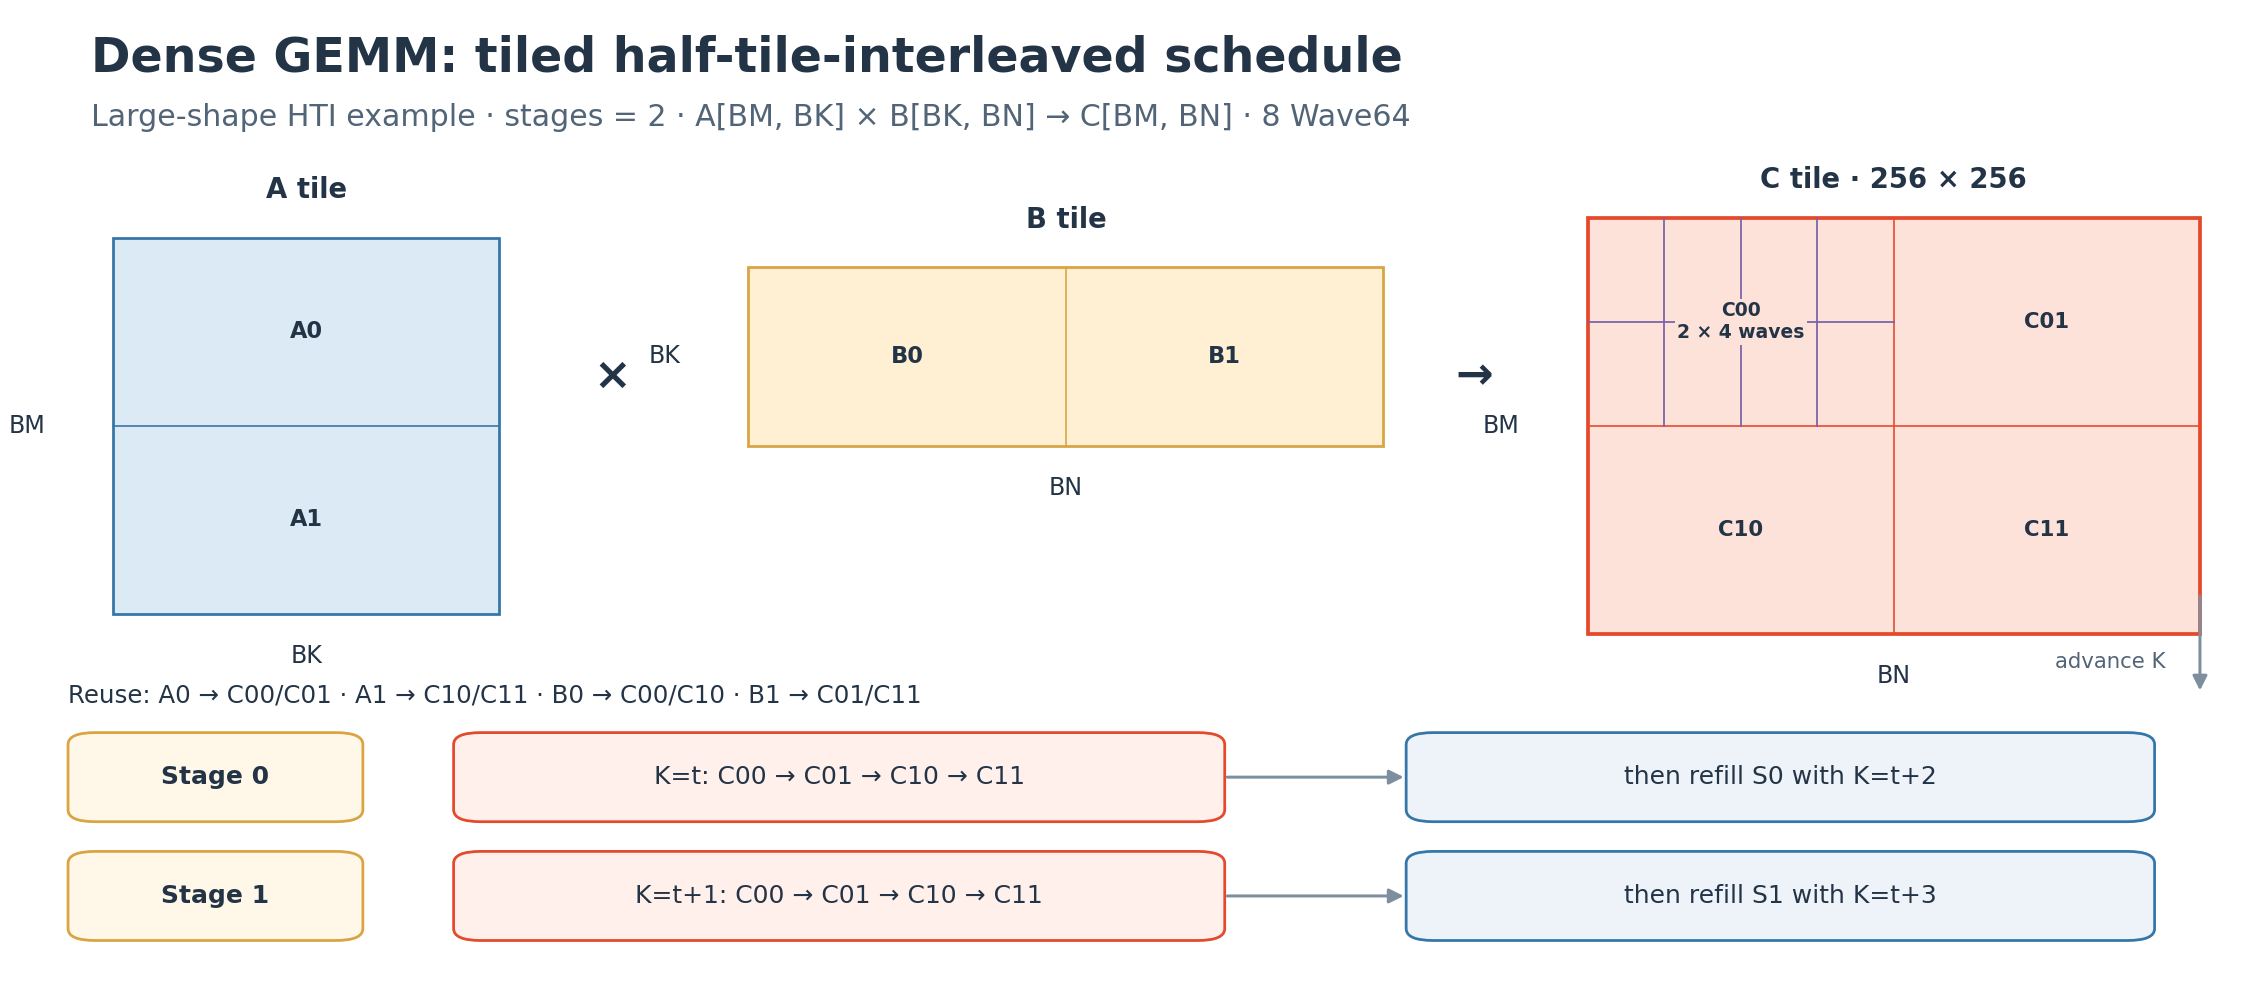
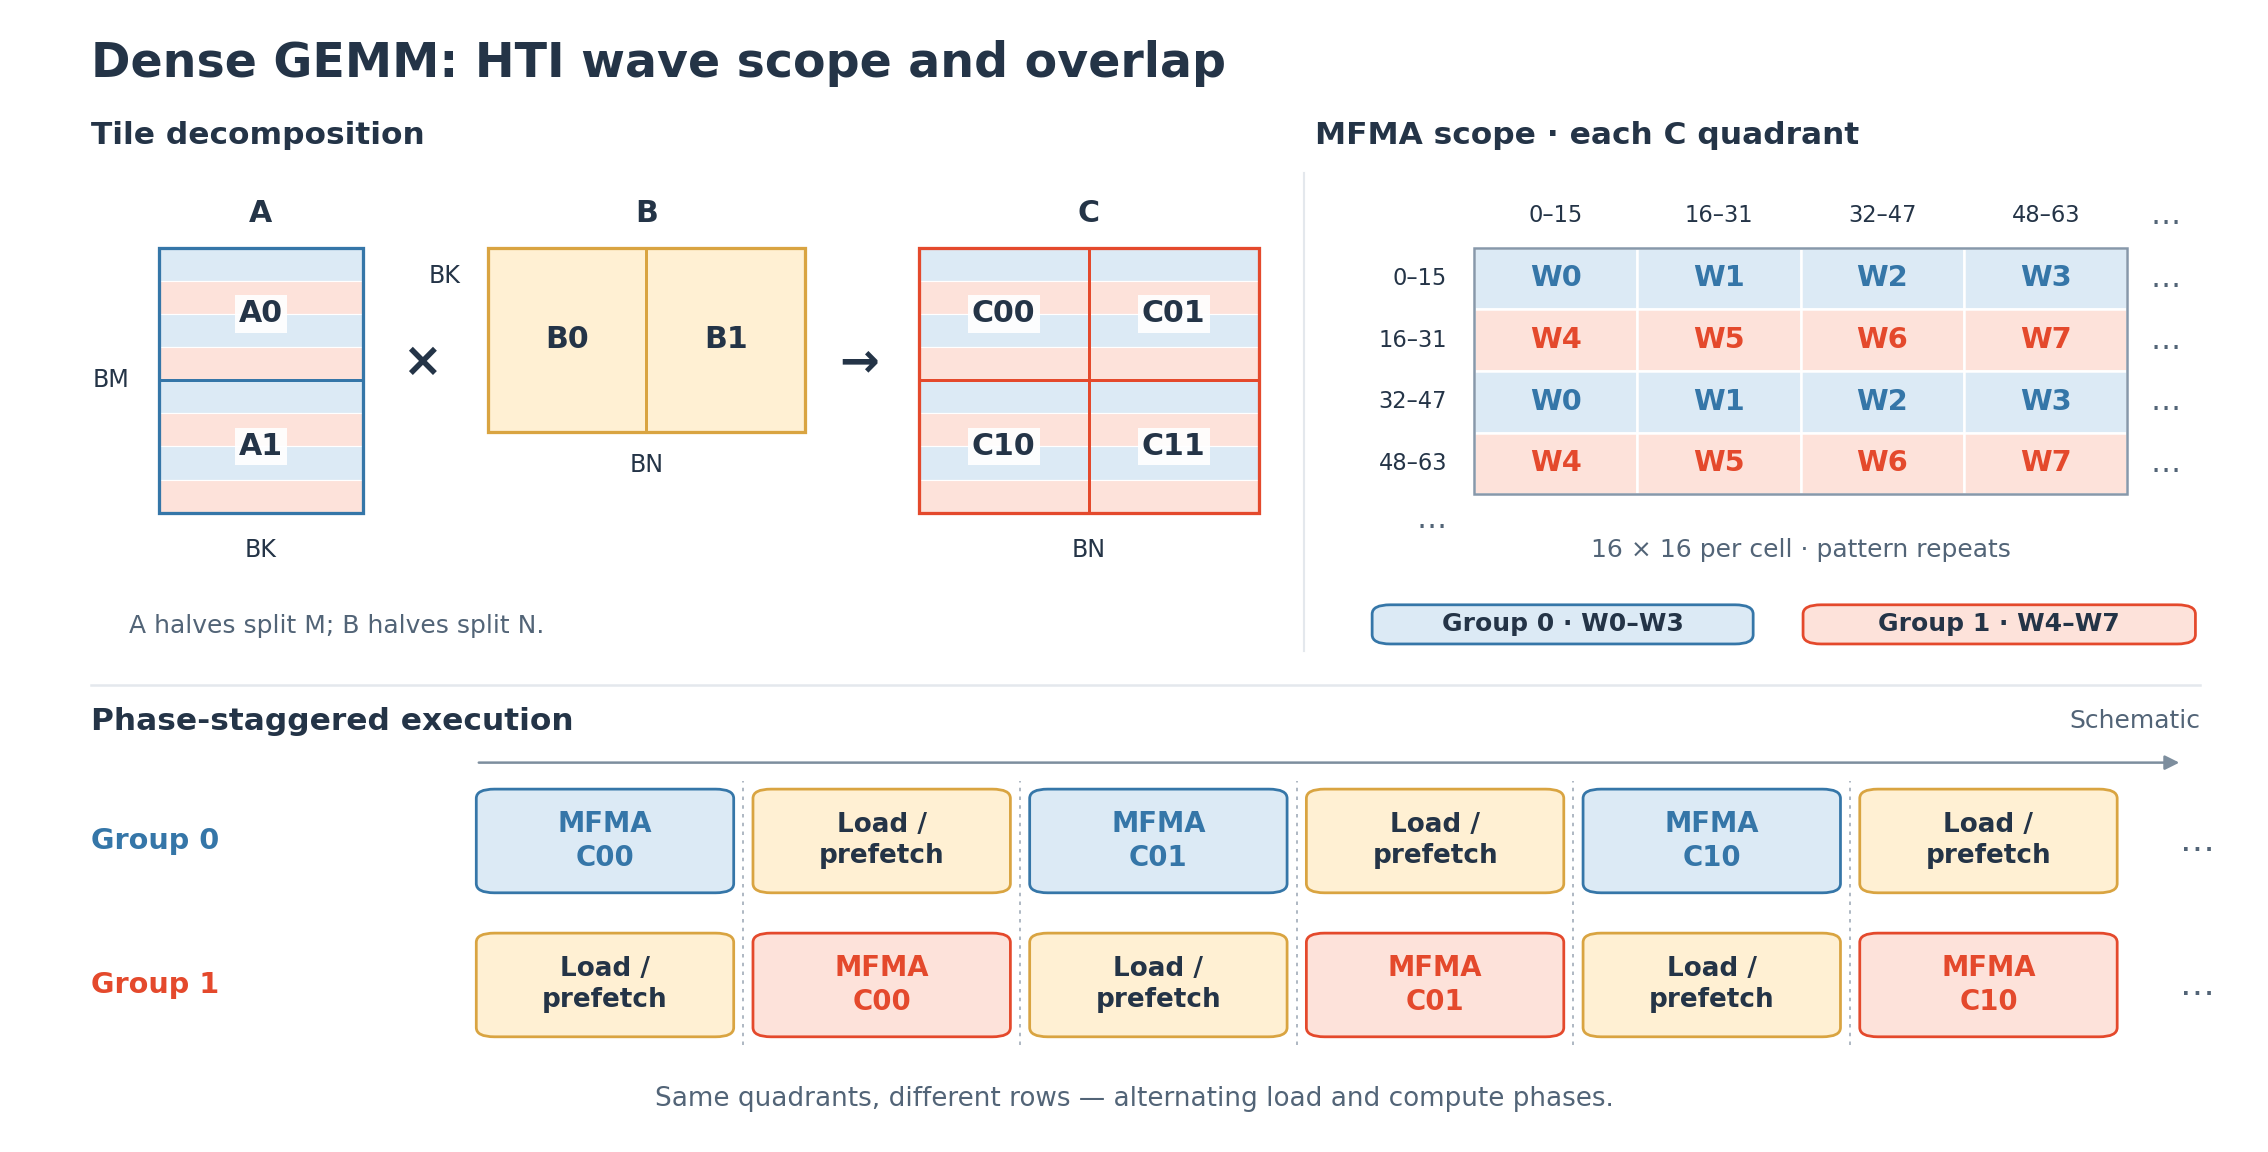
docs: Refine PyTorch FlyDSL backend blog and scheduling diagrams

diff --git a/docs/_static/flydsl-pytorch-backend/generate_figures.py b/docs/_static/flydsl-pytorch-backend/generate_figures.py
@@ -308,59 +308,57 @@ def scheduling_diagrams():
     arrow(dense, (54, 9.5), (62, 9.5))
     save(fig, "flydsl-dense-gemm-hti-pipeline")
 
-    # MXFP: packed operands and block scales are staged together for scaled MFMA.
+    # MXFP HTI: distinct operand/scale reuse periods, matching slices at MFMA.
     fig, mxfp = canvas(
-        "MXFP scaled GEMM: operands and block scales move together",
-        "Shared Dense/BF16 HTI schedule · E8M0 scale per 32 K elements · CDNA4 scaled MFMA",
+        "MXFP HTI: separate operand and scale buffering",
+        "Matching K positions feed scaled MFMA · chunk length depends on tile and workgroup geometry",
     )
-    grid_rect(mxfp, 3, 58, 14, 20, 2, 1, "#DCEAF5")
-    grid_rect(mxfp, 3, 32, 24, 14, 1, 2, "#DCEAF5")
-    grid_rect(mxfp, 22, 57, 18, 12, 2, 4, "#E9E2F4", edge=PURPLE)
-    grid_rect(mxfp, 32, 30, 18, 12, 2, 4, "#E9E2F4", edge=PURPLE)
-    mxfp.text(10, 80, "Packed A", ha="center", fontsize=10.5, fontweight="bold")
-    mxfp.text(15, 48, "Packed B", ha="center", fontsize=10.5, fontweight="bold")
-    mxfp.text(10, 71, "A0", ha="center", va="center", fontsize=8.5, fontweight="bold")
-    mxfp.text(10, 63, "A1", ha="center", va="center", fontsize=8.5, fontweight="bold")
-    mxfp.text(9, 39, "B0", ha="center", va="center", fontsize=8.5, fontweight="bold")
-    mxfp.text(21, 39, "B1", ha="center", va="center", fontsize=8.5, fontweight="bold")
-    mxfp.text(2.5, 68, "BM", ha="right", va="center", fontsize=9)
-    mxfp.text(10, 54, "BK", ha="center", fontsize=9)
-    mxfp.text(2.5, 39, "BK", ha="right", va="center", fontsize=9)
-    mxfp.text(15, 28, "BN", ha="center", fontsize=9)
-    mxfp.text(31, 53, "S_A [BM, BK/32]", ha="center", fontsize=9)
-    mxfp.text(41, 44, "S_B [BN, BK/32]", ha="center", fontsize=9)
-    box(mxfp, 55, 42, 16, 32, "Staged LDS\nA / B\n+ scale chunk", fill="#FFF7E8", edge="#D9A441", bold=True)
-    box(mxfp, 76, 49, 11, 18, "Scaled\nMFMA", fill="#FFF0EB", edge=ORANGE, bold=True)
-    grid_rect(mxfp, 89, 42, 10, 32, 2, 2, "#FDE2DA", edge=ORANGE, linewidth=1.4)
-    mxfp.text(94, 77, "HTI C tile", ha="center", fontsize=10.5, fontweight="bold")
-    for x, y, label in [(91.5, 66, "C00"), (96.5, 66, "C01"), (91.5, 50, "C10"), (96.5, 50, "C11")]:
-        mxfp.text(x, y, label, ha="center", va="center", fontsize=7.5, fontweight="bold")
+    box(mxfp, 4, 71, 22, 12, "A/B LDS\nFP8 / packed FP4", fill="#DCEAF5", edge=BLUE, size=11, bold=True)
+    box(mxfp, 4, 53, 22, 12, "Scale LDS\nE8M0 chunks", fill="#E9E2F4", edge=PURPLE, size=11, bold=True)
+    box(mxfp, 39, 62, 22, 14, "Registers\nmatching K slices", fill="#FFF7E8", edge="#D9A441", size=11)
+    box(mxfp, 68, 62, 12, 14, "Scaled\nMFMA", fill="#FFF0EB", edge=ORANGE, size=11, bold=True)
+    box(mxfp, 87, 62, 10, 14, "FP32\naccum.", fill="#FDE2DA", edge=ORANGE, size=10.5, bold=True)
     for start, end in [
-        ((17, 75), (55, 70)),
-        ((40, 63), (55, 64)),
-        ((27, 45), (55, 54)),
-        ((50, 36), (55, 47)),
-        ((71, 58), (76, 58)),
-        ((87, 58), (89, 58)),
+        ((26, 77), (39, 72)),
+        ((26, 59), (39, 66)),
+        ((61, 69), (68, 69)),
+        ((80, 69), (87, 69)),
     ]:
         arrow(mxfp, start, end)
+
+    mxfp.plot([4, 97], [49, 49], color=GRID, linewidth=0.8)
+    mxfp.text(4, 45, "Read-slot example · 4 K tiles per chunk", fontsize=11, fontweight="bold")
+    mxfp.text(97, 45, "Logical K order, not a timing trace", fontsize=9.5, color="#526477", ha="right")
+    x0, step = 20, 6.25
+    mxfp.text(4, 40, "K tile", fontsize=10, va="center")
+    mxfp.text(4, 33.5, "A/B slot", fontsize=10, va="center", fontweight="bold", color=BLUE)
+    mxfp.text(4, 24, "Scale slot", fontsize=10, va="center", fontweight="bold", color=PURPLE)
+    mxfp.text(4, 13, "Prefetch", fontsize=10, va="center", fontweight="bold", color=PURPLE)
+    for tile in range(12):
+        x = x0 + tile * step
+        mxfp.text(x + 3, 40, str(tile), fontsize=10, ha="center", va="center")
+        box(
+            mxfp, x, 30, 6, 7, str(tile % 2),
+            fill="#DCEAF5" if tile % 2 == 0 else "#EDF3F8", edge=BLUE, size=11,
+        )
+    for chunk in range(3):
+        x = x0 + chunk * 4 * step
+        slot = chunk % 2
+        lo, hi = chunk * 4, chunk * 4 + 3
+        box(
+            mxfp, x, 20.5, 24.75, 7, f"slot {slot} · tiles {lo}–{hi}",
+            fill="#E9E2F4" if slot == 0 else "#F4F0F9", edge=PURPLE, size=10.5,
+        )
+        box(
+            mxfp, x, 10, 24.75, 6, f"{lo + 4}–{hi + 4} → slot {1 - slot}",
+            fill="#F4F0F9", edge=PURPLE, size=10.5,
+        )
+        arrow(mxfp, (x + 3, 20), (x + 3, 16.5))
     mxfp.text(
-        50,
-        27,
-        "Same C00 → C01 → C10 → C11 order as Dense; data and scales have separate lifetimes",
-        ha="center",
-        fontsize=9.8,
+        50, 4,
+        "At each chunk start: read current scales; prefetch the next chunk into the other slot.",
+        fontsize=10.5, ha="center",
     )
-    arrow(mxfp, (94, 42), (94, 30))
-    mxfp.text(95.5, 35, "advance K", fontsize=8.5, color="#526477", ha="right")
-    box(mxfp, 3, 15, 17, 9, "A/B tile ring", fill="#EDF3F8", edge=BLUE, bold=True)
-    box(mxfp, 24, 15, 29, 9, "K pair: C00 → C01 → C10 → C11", fill="#FFF0EB", edge=ORANGE, size=9)
-    box(mxfp, 63, 15, 34, 9, "after last use: refill pair + 2", fill="#EDF3F8", edge=BLUE, size=9.5)
-    arrow(mxfp, (53, 19.5), (63, 19.5))
-    box(mxfp, 3, 3, 17, 9, "Scale chunk ring", fill="#E9E2F4", edge=PURPLE, bold=True)
-    box(mxfp, 24, 3, 29, 9, "slot = (k/chunk_tiles) % 2", fill="#E9E2F4", edge=PURPLE, size=9)
-    box(mxfp, 63, 3, 34, 9, "keep current scales; prefetch next chunk", fill="#E9E2F4", edge=PURPLE, size=9)
-    arrow(mxfp, (53, 7.5), (63, 7.5))
     save(fig, "flydsl-mxfp-gemm-hti-pipeline")
 
     # Grouped GEMM: varying expert matrices are flattened into one persistent stream.

diff --git a/docs/pytorch_flydsl_backend_blog.md b/docs/pytorch_flydsl_backend_blog.md
@@ -2,14 +2,16 @@
 
 PyTorch users on AMD MI350-series GPUs can now use
 [FlyDSL](https://github.com/ROCm/FlyDSL) through existing operator APIs for
-dense and grouped GEMM, MXFP8/MXFP4 scaled GEMM, RMSNorm, and TopK. The optional
-backend covers both eager execution and `torch.compile` without requiring
-applications to call custom kernels.
+dense and grouped GEMM, MXFP8/MXFP4 scaled GEMM, RMSNorm, and TopK, without
+requiring applications to call custom kernels. The optional backend supports
+GEMMs through `torch.compile`, while eligible RMSNorm and TopK calls dispatch
+automatically in eager mode when it is available and enabled.
 
 Across the reported kernel-level operator suites, FlyDSL provides a **1.10x
 geometric-mean speedup for the 15-shape BF16 dense-GEMM suite over the faster
-ATen/Triton baseline**,
-**1.58x and 1.68x geometric means over ATen across 17 shapes per MXFP format**,
+of ATen and Triton at each shape**,
+**1.58x and 1.68x geometric-mean speedups for MXFP8 and MXFP4, respectively,
+over ATen across 17 shapes per format**,
 **1.20x geometric mean over Triton across all 24 grouped-GEMM cases**, and
 **1.17x–3.66x over ATen across the 22 RMSNorm cases**. For the 10 small-K TopK
 cases, the geometric mean is **4.82x over ATen** with deterministic algorithms
@@ -103,54 +105,23 @@ can use the other enabled backends.
 
 ## Kernel-Level Performance
 
-The following operator-level benchmarks compare execution on AMD `gfx950` GPUs.
-The suites use separate measurement setups: dense GEMM uses graph replay,
-grouped GEMM reports steady-state throughput, and RMSNorm and TopK use GPU-event
-timing. The MXFP source reports TFLOP/s but not the timing protocol, benchmark
-output dtype, or complete software stack. Compilation, first-call autotuning,
-and end-to-end latency are excluded; MXFP also starts from already quantized
-operands. A speedup above 1.0 means FlyDSL is faster than the named baseline, and
-geometric means weight sampled cases equally. Each figure and caption identifies
-its comparison baseline and aggregation scope.
+The following operator-level benchmarks were measured on AMD Instinct MI355X (`gfx950`) GPUs. The suites use different benchmark setups: dense GEMM uses GPU-event timing of graph replay, grouped GEMM reports steady-state throughput, and RMSNorm and TopK use GPU-event timing of repeated operator calls. The results focus on steady-state operator execution, excluding compilation and initial autotuning; they do not represent end-to-end model latency. MXFP measurements start from already quantized operands, so input quantization is outside the timed region. A speedup above 1.0 means FlyDSL is faster than the named baseline, and geometric means give equal weight to each sampled case. Each figure and caption specifies its baseline and aggregation scope.
 
 ### Dense GEMM: Linear-Layer Workloads
 
-Dense matrix multiplication is a building block of transformer projection and
-feed-forward layers. Its dimensions vary substantially with the number of tokens
-being processed, making performance across a range of shapes relevant to model
-developers.
+Dense matrix multiplication is a building block of transformer projection and feed-forward layers. Its dimensions vary substantially with the number of tokens being processed, making performance across a range of shapes relevant to model developers.
 
-For large GEMMs, the kernel uses a `256 × 256` output tile computed by an
-eight-wave workgroup (Wave64, 512 threads total)—two waves along M and four
-along N. Its half-tile interleaved (HTI) schedule keeps four output quadrants in
-registers while interleaving two K tiles of global-to-local-data-share (LDS)
-loads with matrix fused multiply-add (MFMA) computation. Smaller shapes can
-autotune among narrower full-tile and HTI configurations.
+FlyDSL provides full-tile and half-tile interleaved (HTI) execution paths. The full-tile path uses a configurable `STAGES`-deep K-tile ring in local data share (LDS). Its prologue primes the ring, the steady-state loop overlaps computation on staged data with asynchronous prefetches into reusable slots, and the final iterations drain the remaining stages. For a step-by-step explanation of this producer/consumer pattern and its wait semantics, see AMD’s [Multi-Stage LDS Pipeline: Keep K Blocks in Flight](https://rocm.blogs.amd.com/software-tools-optimization/accelerating-llm-inference-on-amd-gpus-with-low-latency-gemms/README.html#multi-stage-lds-pipeline-keep-k-blocks-in-flight).
 
-The full-tile path uses a configurable `STAGES`-deep K-tile ring. Its prologue
-fills the ring, the steady-state loop consumes one LDS stage while refilling the
-oldest slot with a future K tile, and the epilogue drains the remaining stages.
-HTI specializes this pattern to two stages and recycles individual A/B halves
-only after their second quadrant consumer.
+For large GEMMs, the tuned HTI configurations use a 256 × 256 output tile and an eight-wave workgroup (512 threads with Wave64). HTI splits A along M and B along N, maintaining four 128 × 128 output-quadrant accumulators in registers. Within each K tile, `A0` feeds `C00/C01`, `A1` feeds `C10/C11`, `B0` feeds `C00/C10`, and `B1` feeds `C01/C11`. Smaller shapes can autotune among narrower full-tile and HTI configurations.
 
-For a step-by-step explanation of the producer/consumer ring and its wait
-semantics, see AMD's
-[Multi-Stage LDS Pipeline: Keep K Blocks in Flight](https://rocm.blogs.amd.com/software-tools-optimization/accelerating-llm-inference-on-amd-gpus-with-low-latency-gemms/README.html#multi-stage-lds-pipeline-keep-k-blocks-in-flight).
-The FlyDSL GEMM schedule here adopts the same multi-stage LDS producer/consumer
-concept.
+HTI processes consecutive K tiles in pairs using two LDS stages. In steady state, prefetches progressively reuse the stages holding `t` and `t+1` for `t+2` and `t+3`. Reuse occurs half by half: once the required reads of an operand half’s old LDS contents are complete and synchronization requirements are met, its region can be refilled while matrix fused multiply-add (MFMA) computation continues on register-resident fragments. A phase-shifted barrier schedule staggers two four-wave groups, overlapping MFMA work in one group with operand loading and asynchronous prefetching in the other. Both groups alternate between these activities, combining half-tile buffer reuse with staggered execution rather than waiting for an entire tile’s computation to finish.
 
-HTI starts with K tile `t` in stage 0 and `t+1` in stage 1. Within one tile,
-`A0` feeds `C00/C01`, `A1` feeds `C10/C11`, `B0` feeds `C00/C10`, and `B1`
-feeds `C01/C11`. After a half has served both consumers, its LDS region can be
-refilled: stage 0 receives `t+2` while stage 1 is consumed, then stage 1 receives
-`t+3`. The two stages alternate in this way across K.
+![HTI tile decomposition, MFMA wave scope, and phase-staggered loading and computation](_static/flydsl-pytorch-backend/flydsl-dense-gemm-hti-pipeline.png)
 
-![Dense GEMM tile mapping and two-stage HTI ring buffer](_static/flydsl-pytorch-backend/flydsl-dense-gemm-hti-pipeline.png)
-
-*Figure 2. Dense GEMM tiled scheduling. HTI splits A and B into halves, then the
-same eight waves update `C00`–`C11` for each K tile. Stage 0 and stage 1 hold
-consecutive tiles; after the second use of an A/B half, that region is recycled
-for the tile two positions ahead.*
+*Figure 2. HTI wave scope and phase-staggered execution, shown with two groups
+of four Wave64 waves. Each grid cell is a 16 × 16 output block. Waves per group
+are tunable with the tile configuration, subject to kernel constraints.*
 
 Across 15 BF16 NT shapes, FlyDSL delivers a **1.10x geometric-mean speedup over
 the faster ATen/Triton baseline at each shape**. Gains are strongest in smaller
@@ -175,33 +146,24 @@ performance depending on the workload.
 
 ### MXFP Scaled GEMM: Extending to Low-Precision Workloads
 
-Microscaled formats combine low-precision values with a shared scale for each
-small block of elements. They reduce operand storage while allowing matrix
-multiplication to accumulate in FP32. FlyDSL's MXFP8 and MXFP4 support makes
-these kernels available to quantized workloads through `torch.compile`.
+MXFP extends the shared gfx950 full-tile and HTI GEMM implementations with
+FP8 operand handling, packed FP4 storage, E8M0 scale staging, and CDNA4 scaled
+MFMA.
 
-MXFP is a specialization of the same gfx950 GEMM scheduler rather than an
-independent schedule: it reuses the Dense/BF16 tile configurations, wave layout,
-full-tile/HTI choice, four resident C quadrants, and K-pair prefetch pipeline.
-Its additions are packed MXFP8/MXFP4 operand layouts, E8M0 scales staged through
-LDS with A/B, and CDNA4 scaled MFMA instructions. For HTI, the scale-chunk length
-is derived from the tile and workgroup geometry and cycled through the staged
-buffers. A/B stages ping-pong per K tile, whereas scale slots ping-pong per
-multi-tile chunk; data and scale fragments are read together before either slot
-can be recycled. For the common `256 × 256` HTI configurations this gives four
-K tiles per MXFP8 scale chunk (`BK=128`) and two per MXFP4 chunk (`BK=256`);
-the implementation derives the value rather than treating it as a universal
-constant. In the full-tile MXFP path, `scale_chunk_tiles=1`: scales occupy the
-same configurable `STAGES`-deep per-stage ring as A/B. The separate multi-tile
-scale-chunk ring shown below is specific to HTI.
+In HTI, A/B buffers advance by K tile, while separate scale slots hold chunks
+spanning multiple K tiles. Each MFMA uses register-resident operands and the
+matching scales for its K position. At chunk boundaries, waits and barriers
+coordinate reuse of the other scale slot to prefetch the next chunk while
+the current chunk is consumed. Chunk length depends on tile and workgroup
+geometry; the four-tile chunk below is an example, not a fixed format
+requirement. The full-tile path instead stages each K tile's scales in separate
+LDS buffers using the same stage index as A/B.
 
-![MXFP scaled GEMM uses independent operand-stage and scale-chunk rings](_static/flydsl-pytorch-backend/flydsl-mxfp-gemm-hti-pipeline.png)
+![MXFP HTI operand and scale buffers feeding scaled MFMA, with distinct read-slot sequences](_static/flydsl-pytorch-backend/flydsl-mxfp-gemm-hti-pipeline.png)
 
-*Figure 4. MXFP scaled-GEMM scheduling. The C-quadrant and K-pair schedule is
-shared with Dense/BF16. MXFP adds packed A/B values, E8M0 scale chunks, and
-scaled MFMA. The A/B ring follows the same quadrant consumer order and refills
-after the last data consumer; the scale ring retains matching scales until
-those consumers finish, then prefetches the next chunk.*
+*Figure 4. MXFP HTI buffering, shown with four K tiles per scale chunk. A/B
+read slots alternate per tile; scale read slots alternate per chunk. The next
+scale chunk is prefetched into the other slot at each chunk boundary.*
 
 On MI355X, the 17-shape NT suite shows a **1.58x geometric-mean speedup for
 MXFP8 over ATen** and a **1.68x speedup for MXFP4 over ATen**.
@@ -214,8 +176,8 @@ geometric mean relative to ATen.*
 FlyDSL exceeds ATen throughput in every reported case for both formats.
 MXFP8 speedups range from **1.31x to 2.23x**, with the largest gain at
 `32 × 4096 × 4096`. MXFP4 ranges from **1.31x to 2.96x**, peaking at
-`32 × 14336 × 4096`. The integrated MXFP autotuning path chooses between ATen
-and FlyDSL for each eligible workload. The measurements cover NT layout.
+`32 × 14336 × 4096`. The MXFP autotuning path benchmarks FlyDSL alongside ATen
+when both backends are enabled and applicable. The measurements cover NT layout.
 
 ### Grouped GEMM: Uneven Work Across Experts
 
